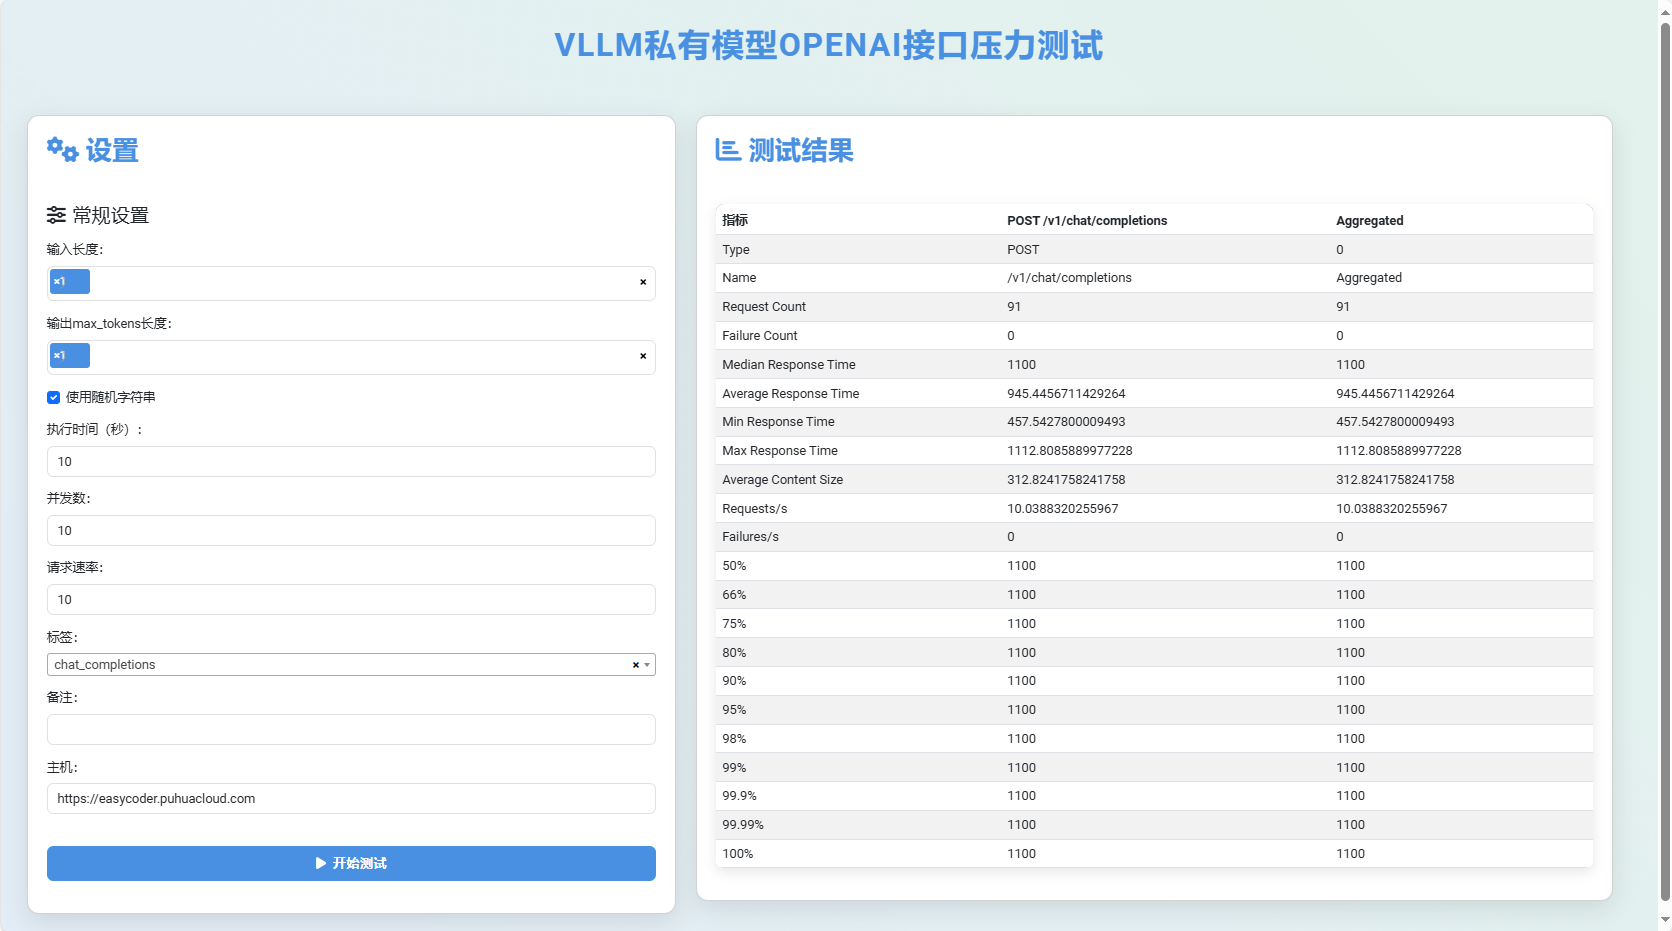
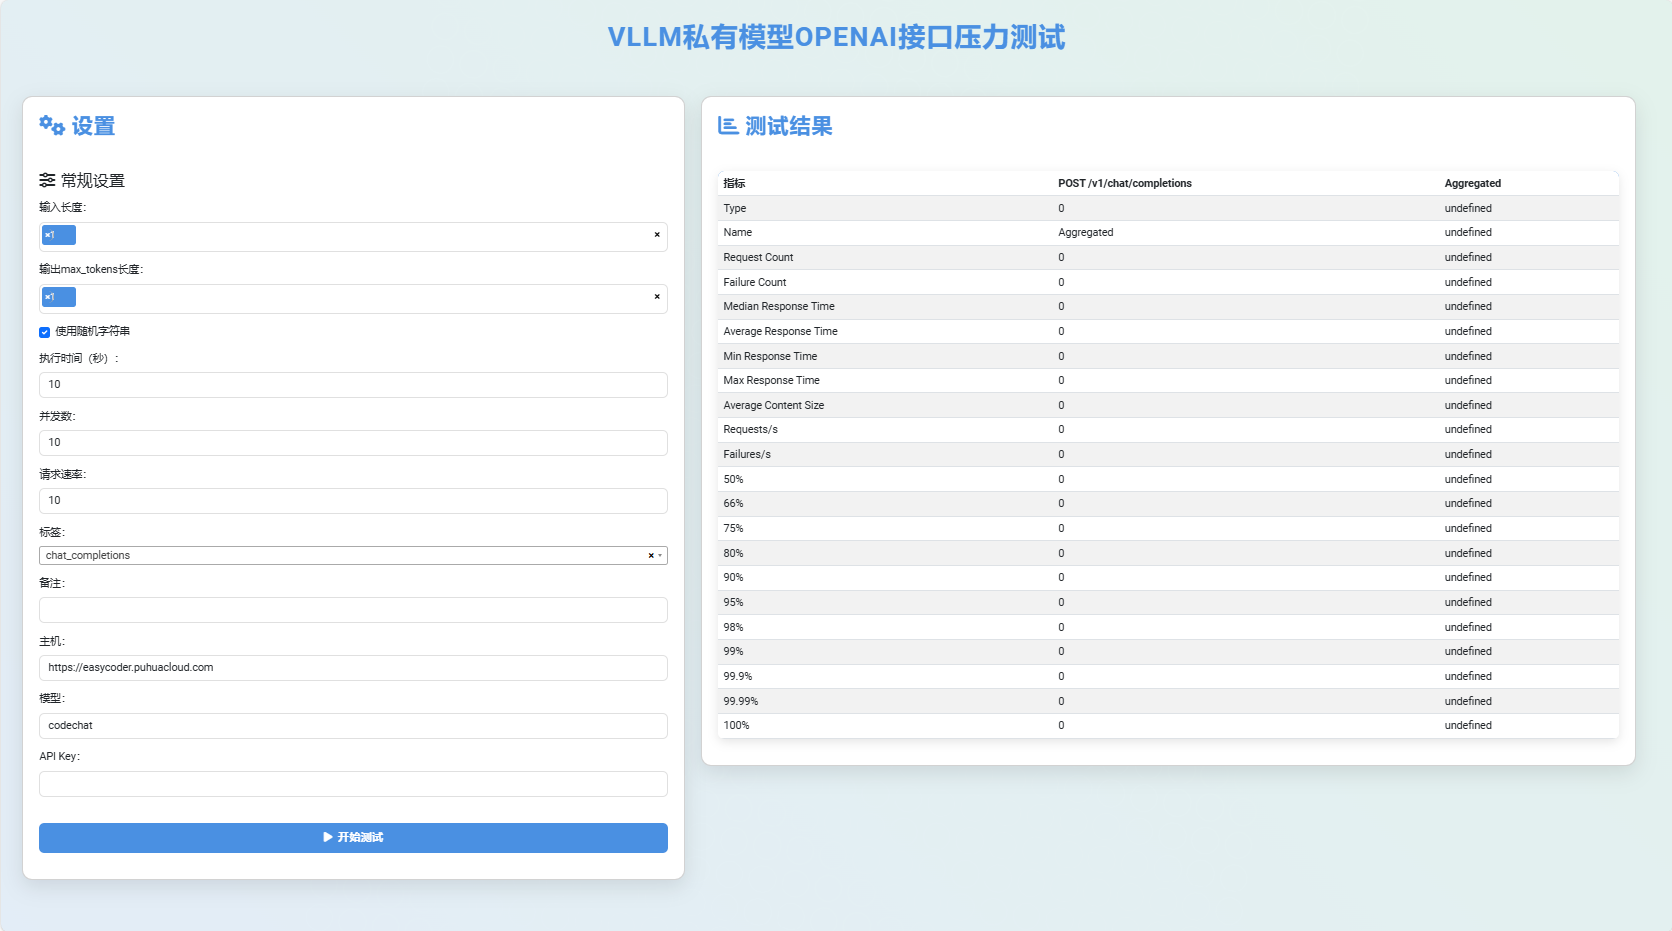
update

diff --git a/templates/index.html b/templates/index.html
@@ -258,7 +258,17 @@
 
                         <div class="mb-3">
                             <label for="host" class="form-label">主机：</label>
-                            <input type="url" id="host" name="host" class="form-control" value="https://easycoder.puhuacloud.com">
+                            <input type="url" id="host" name="host" class="form-control" value="https://api.openai.com">
+                        </div>
+
+                        <div class="mb-3">
+                            <label for="model" class="form-label">模型：</label>
+                            <input type="text" id="model" name="model" class="form-control" value="codechat">
+                        </div>
+
+                        <div class="mb-3">
+                            <label for="apiKey" class="form-label">API Key：</label>
+                            <input type="text" id="apiKey" name="API_KEY" class="form-control">
                         </div>
 
                         <button type="submit" class="btn btn-primary mt-4 w-100">
@@ -298,6 +308,8 @@
                 settings.output_lens = $('#outputLength').val().join(',');
                 settings.time_ = settings.time_ + 's';
                 settings.RANDOM_STRING = formData.get('RANDOM_STRING') === 'on';
+                settings.model = formData.get('model');
+                settings.API_KEY = formData.get('API_KEY');
 
                 const selectedTag = $('#tags').val();
 

diff --git a/main.py b/main.py
@@ -21,6 +21,7 @@ class TagEnum(str, Enum):
 
 
 class TaskRequest(BaseModel):
+    model: str = "codechat"
     input_lens: str = "1,2"
     output_lens: str = "1,2"
     user: int = 10
@@ -28,11 +29,12 @@ class TaskRequest(BaseModel):
     time_: str = "10s"
     tags: TagEnum = TagEnum.chat_completions  # 使用 Enum 限制 tags 的值
     remark: str = ""
-    host: str = "https://easycoder.puhuacloud.com"  # 添加 host 字段
+    host: str = "https://api.openai.com"  # 添加 host 字段
     RANDOM_STRING: bool = False
+    API_KEY: str = ""
 
 
-def task(INPUT_LENS: str, OUTPUT_LENS: str, user: int = 10, rate: int = 10, time_: str = "10s", tags: TagEnum = TagEnum.chat_completions, remark: str = "", host: str = "", RANDOM_STRING: bool = False):
+def task(model: str, INPUT_LENS: str, OUTPUT_LENS: str, user: int = 10, rate: int = 10, time_: str = "10s", tags: TagEnum = TagEnum.chat_completions, remark: str = "", host: str = "", RANDOM_STRING: bool = False, API_KEY: str = ""):
     logger.info(f"是否随机输入字符串: {RANDOM_STRING}")
     if RANDOM_STRING:
         RANDOM_STRING = "true"
@@ -40,7 +42,7 @@ def task(INPUT_LENS: str, OUTPUT_LENS: str, user: int = 10, rate: int = 10, time
         RANDOM_STRING = ""
 
     # 在命令中添加 --host 参数
-    os.system(f"RANDOM_STRING={RANDOM_STRING} INPUT_LENS={INPUT_LENS} OUTPUT_LENS={OUTPUT_LENS} locust -f src/job.py --host {host} --tags {tags} --headless -u {user} -r {rate} --run-time {time_} --only-summary --csv csv")
+    os.system(f"RANDOM_STRING={RANDOM_STRING} INPUT_LENS={INPUT_LENS} OUTPUT_LENS={OUTPUT_LENS} model={model} API_KEY={API_KEY} locust -f src/job.py --host {host} --tags {tags} --headless -u {user} -r {rate} --run-time {time_} --only-summary --csv csv")
 
     # 读取 CSV 文件
     data = pd.read_csv(f"csv_stats.csv")
@@ -61,6 +63,7 @@ def task(INPUT_LENS: str, OUTPUT_LENS: str, user: int = 10, rate: int = 10, time
 async def run_task(task_request: TaskRequest):
     try:
         result = task(
+            model=task_request.model,
             INPUT_LENS=task_request.input_lens,
             OUTPUT_LENS=task_request.output_lens,
             user=task_request.user,
@@ -69,7 +72,8 @@ async def run_task(task_request: TaskRequest):
             tags=task_request.tags,  # 传递 tags 参数
             remark=task_request.remark,
             host=task_request.host,  # 传递 host 参数
-            RANDOM_STRING=task_request.RANDOM_STRING
+            RANDOM_STRING=task_request.RANDOM_STRING,
+            API_KEY=task_request.API_KEY
         )
         return {"status": "success", "result": result}
     except Exception as e:

diff --git a/src/job.py b/src/job.py
@@ -16,9 +16,9 @@ def random_string(length):
     return ''.join(random.choices(string.ascii_letters + string.digits, k=length))
 
 
-def chat_data(input_len=128, output_len=128):
+def chat_data(input_len=128, output_len=128, model="codechat"):
     return {
-        "model": "codechat",
+        "model": model,
         "messages": [
             {"role": "system", "content": "You are a helpful assistant."},
             {"role": "user", "content": random_string(input_len)}
@@ -29,12 +29,23 @@ def chat_data(input_len=128, output_len=128):
     }
 
 
-def generation_data(input_len=128, output_len=128):
+def generation_data(input_len=128, output_len=128, model="codebase"):
     return {
-        "model": "codebase",
+        "model": model,
         "prompt": random_string(input_len),
         "max_tokens": output_len,
         "temperature": 0.0
+    }
+
+
+class Config:
+    input_lens = random.choice([int(i)
+                                for i in os.environ.get('INPUT_LENS', '1').split(',')])
+    output_lens = random.choice([int(i)
+                                 for i in os.environ.get('OUTPUT_LENS', '1').split(',')])
+    model = os.environ.get('model', 'codechat')
+    headers = {
+        "Authorization": os.environ.get("API_KEY", "")
     }
 
 
@@ -43,23 +54,11 @@ class QuickstartUser(HttpUser):
     @tag('chat_completions')
     @task
     def chat(self):
-        input_lens = [int(i)
-                      for i in os.environ.get('INPUT_LENS', '1').split(',')]
-        output_lens = [int(i) for i in os.environ.get(
-            'OUTPUT_LENS', '1').split(',')]
-        input_len = random.choice(input_lens)
-        output_len = random.choice(output_lens)
         self.client.post("/v1/chat/completions",
-                         json=chat_data(input_len=input_len, output_len=output_len))
+                         json=chat_data(input_len=input_len, output_len=output_len, model=Config.model), headers=Config.headers)
 
     @tag('completions')
     @task
     def base(self):
-        input_lens = [int(i)
-                      for i in os.environ.get('INPUT_LENS', '1').split(',')]
-        output_lens = [int(i) for i in os.environ.get(
-            'OUTPUT_LENS', '1').split(',')]
-        input_len = random.choice(input_lens)
-        output_len = random.choice(output_lens)
         self.client.post("/v1/completions",
-                         json=generation_data(input_len=input_len, output_len=output_len))
+                         json=generation_data(input_len=Config.input_len, output_len=Config.output_len, model=Config.model), headers=Config.headers)

diff --git a/README.md b/README.md
@@ -51,7 +51,7 @@ You can configure the task parameters in the `TaskRequest` model. The following 
 - `time_`: Duration for which the test will run (default: "10s").
 - `tags`: Tags for the task (default: `chat_completions`).
 - `remark`: Optional remark for the task.
-- `host`: Host URL for the Locust test (default: "https://easycoder.puhuacloud.com").
+- `host`: Host URL for the Locust test (default: "https://api.openai.com").
 - `RANDOM_STRING`: Boolean to indicate if random input strings should be used (default: False).
 
 ## Running the Application
@@ -75,7 +75,8 @@ You can then access the application at `http://localhost:50000`.
   **Request Example:**
 
   ```json
-  {
+    {
+    "model": "codechat",
     "input_lens": "1,2",
     "output_lens": "1,2",
     "user": 10,
@@ -83,9 +84,10 @@ You can then access the application at `http://localhost:50000`.
     "time_": "10s",
     "tags": "chat_completions",
     "remark": "",
-    "host": "https://easycoder.puhuacloud.com",
-    "RANDOM_STRING": false
-  }
+    "host": "https://api.openai.com",
+    "RANDOM_STRING": false,
+    "API_KEY": ""
+    }
   ```
 
   **Response Example:**
